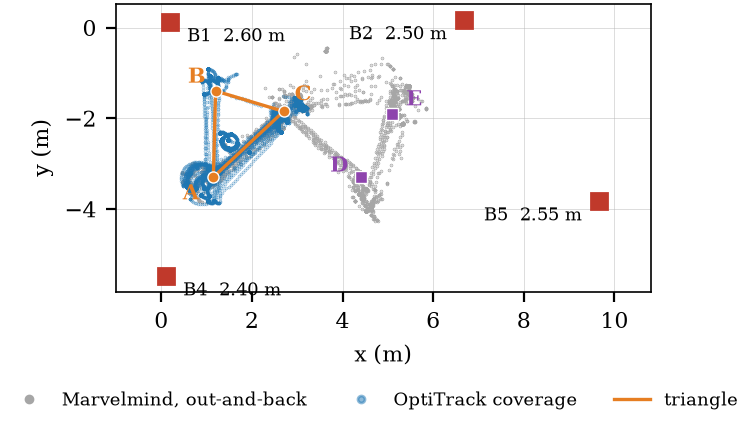
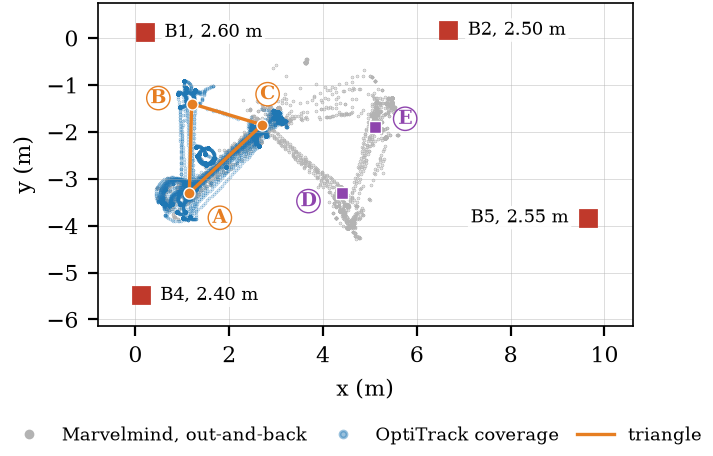
Floor plan: labels without overlaps

diff --git a/paper/scripts/analysis.py b/paper/scripts/analysis.py
@@ -302,25 +302,28 @@ NUM['rigid_body'] = {'low_markers_height_cm': round(hz, 1), 'upper_markers_heigh
 save(fig, 'fig1_setup')
 
 # ------------------------------------------------------------------ floor plan (single column), names as in the photo
-fig, ax = plt.subplots(figsize=(W1, 2.4))
-for k, (x, y, z) in BEACONS.items():
-    right = x > 5
-    ax.plot(x, y, 's', ms=6, color='#c0392b')
-    ax.annotate(f'B{k}  {z:.2f} m', (x, y), xytext=(-6 if right else 6, -2), textcoords='offset points', fontsize=6.5, va='top', ha='right' if right else 'left')
-ax.plot(Mi['x'], Mi['y'], '.', ms=0.5, color='0.65', rasterized=True, label='Marvelmind, out-and-back')
+fig, ax = plt.subplots(figsize=(W1, 2.6))
+ax.plot(Mi['x'], Mi['y'], '.', ms=0.5, color='0.7', rasterized=True, label='Marvelmind, out-and-back', zorder=1)
 Hall = np.vstack([hedge(REC[n]['O']['x'], REC[n]['O']['y'], REC[n]['O']['yaw'], PARAMS[n][2], TH, TT)[::20] for n in CAMPAIGN1])
-ax.plot(Hall[:, 0], Hall[:, 1], '.', ms=0.5, color='#1f77b4', alpha=0.5, rasterized=True, label='OptiTrack coverage')
+ax.plot(Hall[:, 0], Hall[:, 1], '.', ms=0.5, color='#1f77b4', alpha=0.45, rasterized=True, label='OptiTrack coverage', zorder=1)
 tri = np.array([VERTEX_NAMES[k] for k in 'ABCA'])
-ax.plot(tri[:, 0], tri[:, 1], '-', color='#e67e22', lw=1.2, label='triangle')
+ax.plot(tri[:, 0], tri[:, 1], '-', color='#e67e22', lw=1.2, label='triangle', zorder=2)
+LBOX = dict(boxstyle='round,pad=0.15', fc='white', ec='none', alpha=0.9)
+for k, (x, y, z) in BEACONS.items():
+    ax.plot(x, y, 's', ms=6, color='#c0392b', zorder=3)
+    left = k == 5
+    ax.annotate(f'B{k}, {z:.2f} m', (x, y), xytext=(-7 if left else 7, 0), textcoords='offset points', fontsize=6.5,
+                va='center', ha='right' if left else 'left', bbox=LBOX, zorder=4)
+OFF = {'A': (11, -9), 'B': (-12, 2), 'C': (2, 11), 'D': (-12, -3), 'E': (11, 3)}
 for k, (x, y) in {**VERTEX_NAMES, **OUTSIDE_NAMES}.items():
     col = '#e67e22' if k in VERTEX_NAMES else '#8e44ad'
-    ax.plot(x, y, 'o' if k in VERTEX_NAMES else 's', ms=4, color=col, mec='white', mew=0.5)
-    off = {'A': (-11, -8), 'B': (-10, 3), 'C': (4, 4), 'D': (-11, 2), 'E': (5, 3)}[k]
-    ax.annotate(k, (x, y), xytext=off, textcoords='offset points', fontsize=7.5, weight='bold', color=col)
-ax.set_xlim(-1.0, 10.8); ax.set_ylim(-6.3, 1.0); ax.set_aspect('equal', adjustable='datalim')
+    ax.plot(x, y, 'o' if k in VERTEX_NAMES else 's', ms=4, color=col, mec='white', mew=0.5, zorder=3)
+    ax.annotate(k, (x, y), xytext=OFF[k], textcoords='offset points', fontsize=7, weight='bold', color=col,
+                ha='center', va='center', bbox=dict(boxstyle='circle,pad=0.1', fc='white', ec=col, lw=0.5), zorder=4)
+ax.set_xlim(-0.8, 10.6); ax.set_ylim(-6.4, 1.0); ax.set_aspect('equal', adjustable='datalim')
 ax.set_xlabel('x (m)'); ax.set_ylabel('y (m)')
-fig.subplots_adjust(bottom=0.28); h_, l_ = ax.get_legend_handles_labels()
-fig.legend(h_, l_, loc='lower center', bbox_to_anchor=(0.5, 0.0), ncol=3, markerscale=10, fontsize=6.5)
+fig.subplots_adjust(bottom=0.26); h_, l_ = ax.get_legend_handles_labels()
+fig.legend(h_, l_, loc='lower center', bbox_to_anchor=(0.5, 0.0), ncol=3, markerscale=10, fontsize=6.5, columnspacing=1.0)
 save(fig, 'fig_floorplan')
 
 # ------------------------------------------------------------------ Fig. 2: as recorded vs corrected (slow triangle)
